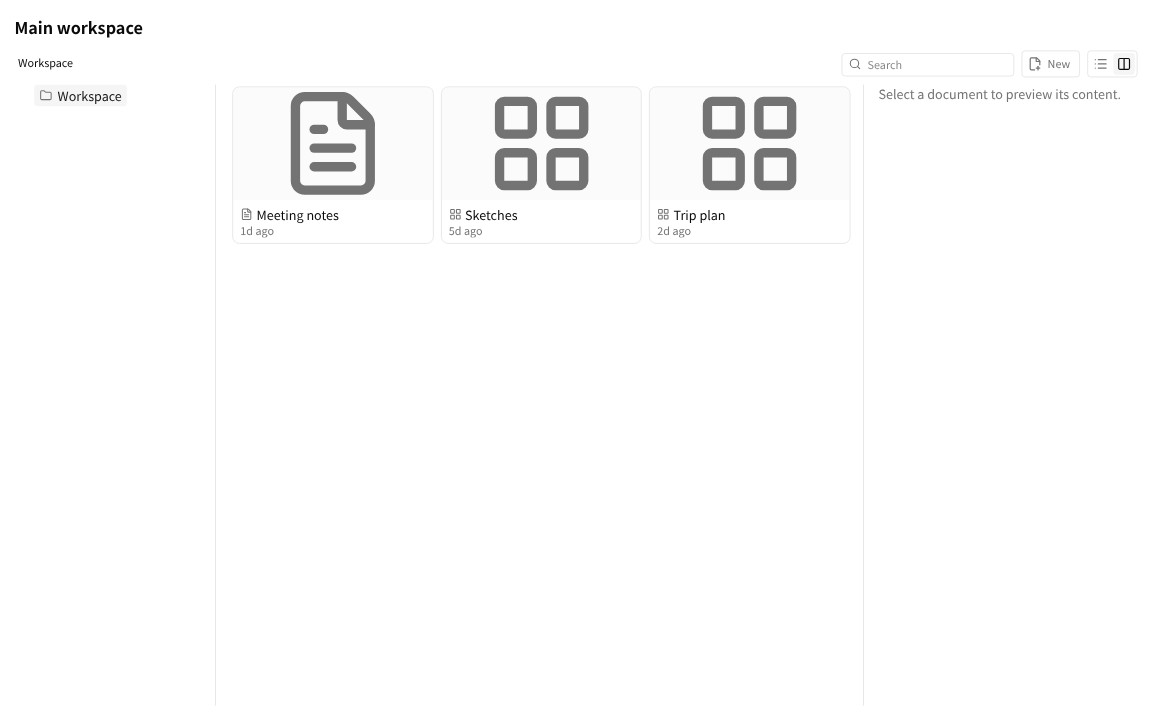
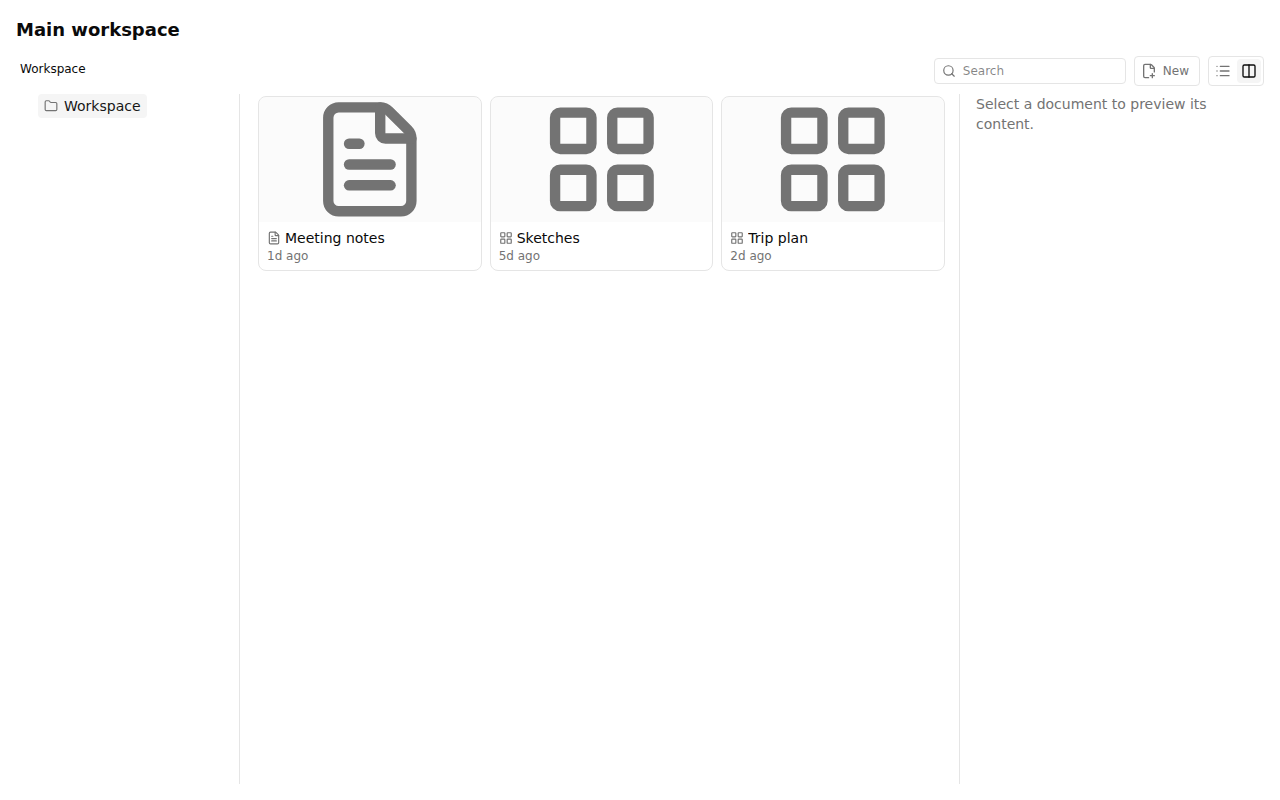
fix(web): docs snapshots land in docs/assets again, and say so from the browser side
`pnpm docs:snapshots` reported 8 passed and wrote every PNG to a
directory literally named `"` under `src/docs-snapshots/`, leaving
`docs/assets/` untouched. Nothing was red: `page.screenshot` resolves for
any path it can `mkdir -p`, and CI does not run this project.

Measured on Vitest 5.0.0. Its browser mode assigns `config.define`
verbatim onto `globalThis` (`setup-common`: `globalThis[key] =
config.defines[key]`), so the `JSON.stringify`-ed directory arrived in the
test as the JSON text, quotes included. A plain string in `define` is
worse: Vite still inlines it as code and `/home/...` parses as a regex
literal (`Invalid regular expression flags`). The directory now travels
as `import.meta.env.VITE_DOCS_ASSETS_DIR`, which Vite inlines as a string
on both sides.

`asset-path.docs-snapshot.test.tsx` reads the resolved path instead of
the exit code — absolute, unquoted, under docs/assets — so the next
runner change that breaks this fails red.

Regenerates all eight images. Three carry the header change from the
previous commit; all eight change scale. The committed set was rendered
at 0.9x (1152x684 for a 1280x760 frame; the old runner's iframe scaling),
and the current runner renders the element 1:1. Two consecutive runs
produce byte-identical files.

Claude-Session: https://claude.ai/code/session_016W8zfiQN2orUM1hJt5ygs2

diff --git a/apps/web/vitest.docs-snapshots.config.ts b/apps/web/vitest.docs-snapshots.config.ts
@@ -28,10 +28,21 @@ const __dirname = dirname(fileURLToPath(import.meta.url))
 // where node:path / node:url are unavailable.
 const DOCS_ASSETS_DIR = resolve(__dirname, '..', '..', 'docs', 'assets')
 
+// Handed to the browser bundle as `import.meta.env.VITE_DOCS_ASSETS_DIR`, NOT
+// through `define`. Vitest 5's browser mode assigns `config.define` verbatim
+// onto `globalThis` (setup-common: `globalThis[key] = config.defines[key]`),
+// so a `JSON.stringify`-ed path arrives as the JSON text, quotes included,
+// and `page.screenshot` mkdir-p's a directory literally named `"` under
+// `src/docs-snapshots/` while every snapshot reports passed. A plain string
+// in `define` is worse: Vite still inlines it as code and `/home/...` parses
+// as a regex literal. An env var goes through Vite's own env inlining, which
+// is a string on both sides. `asset-path.docs-snapshot.test.tsx` reads the
+// resulting path instead of the exit code.
+process.env.VITE_DOCS_ASSETS_DIR = DOCS_ASSETS_DIR
+
 export default defineConfig({
   define: {
     ...rendererBuildDefine,
-    __DOCS_ASSETS_DIR__: JSON.stringify(DOCS_ASSETS_DIR),
   },
   // The doc-snapshot tests need to read existing scene fixtures (e.g.
   // docs/assets/architecture.canvas) as raw JSON Canvas text so they can

diff --git a/apps/web/src/docs-snapshots/asset-path.docs-snapshot.test.tsx b/apps/web/src/docs-snapshots/asset-path.docs-snapshot.test.tsx
@@ -1,0 +1,25 @@
+/**
+ * Where a docs snapshot lands, asserted from the browser side.
+ *
+ * Every snapshot test here reports "passed" when `page.screenshot` resolves,
+ * and `page.screenshot` resolves for ANY path it can `mkdir -p` its way to.
+ * So a wrong `__DOCS_ASSETS_DIR__` is not a red test: it is eight green
+ * tests and eight PNGs written somewhere nobody looks, while `docs/assets/`
+ * keeps the old images. Measured: a value that arrived as the JSON text
+ * `"/home/.../docs/assets"` (quotes included) produced a directory literally
+ * named `"` under `src/docs-snapshots/`, and the run reported 8 passed.
+ *
+ * CI does not run this project, so nothing downstream would have noticed
+ * either. This is the one assertion that reads the path instead of the exit
+ * code.
+ */
+
+import { expect, it } from 'vitest'
+import { resolveDocAssetPath } from './_helpers.js'
+
+it('resolves a docs asset to an absolute, unquoted path under docs/assets', () => {
+  const path = resolveDocAssetPath('probe.png')
+  expect(path).not.toContain('"')
+  expect(path.startsWith('/')).toBe(true)
+  expect(path.endsWith('/docs/assets/probe.png')).toBe(true)
+})

diff --git a/apps/web/src/docs-snapshots/_helpers.ts b/apps/web/src/docs-snapshots/_helpers.ts
@@ -3,17 +3,20 @@
 // PNG straight to docs/assets/, so the source-of-truth image lives next
 // to the markdown that embeds it.
 //
-// __DOCS_ASSETS_DIR__ is inlined at build time by the vitest define block
-// in vitest.docs-snapshots.config.ts (node:path is not available inside
-// the browser-mode test bundle).
+// The directory reaches the browser bundle as
+// `import.meta.env.VITE_DOCS_ASSETS_DIR`, set by vitest.docs-snapshots.config.ts
+// (node:path is not available inside the browser-mode test bundle, and
+// `define` cannot carry a string here — see the config for the measurement).
 
 import { waitFor } from '@testing-library/react'
 import { page } from 'vitest/browser'
 
-declare const __DOCS_ASSETS_DIR__: string
-
 export function resolveDocAssetPath(name: `${string}.png`): string {
-  return `${__DOCS_ASSETS_DIR__}/${name}`
+  const dir: unknown = import.meta.env.VITE_DOCS_ASSETS_DIR
+  if (typeof dir !== 'string' || dir.length === 0) {
+    throw new Error('VITE_DOCS_ASSETS_DIR is not set; run through vitest.docs-snapshots.config.ts')
+  }
+  return `${dir}/${name}`
 }
 
 export function jsonResponse(body: unknown): Response {
